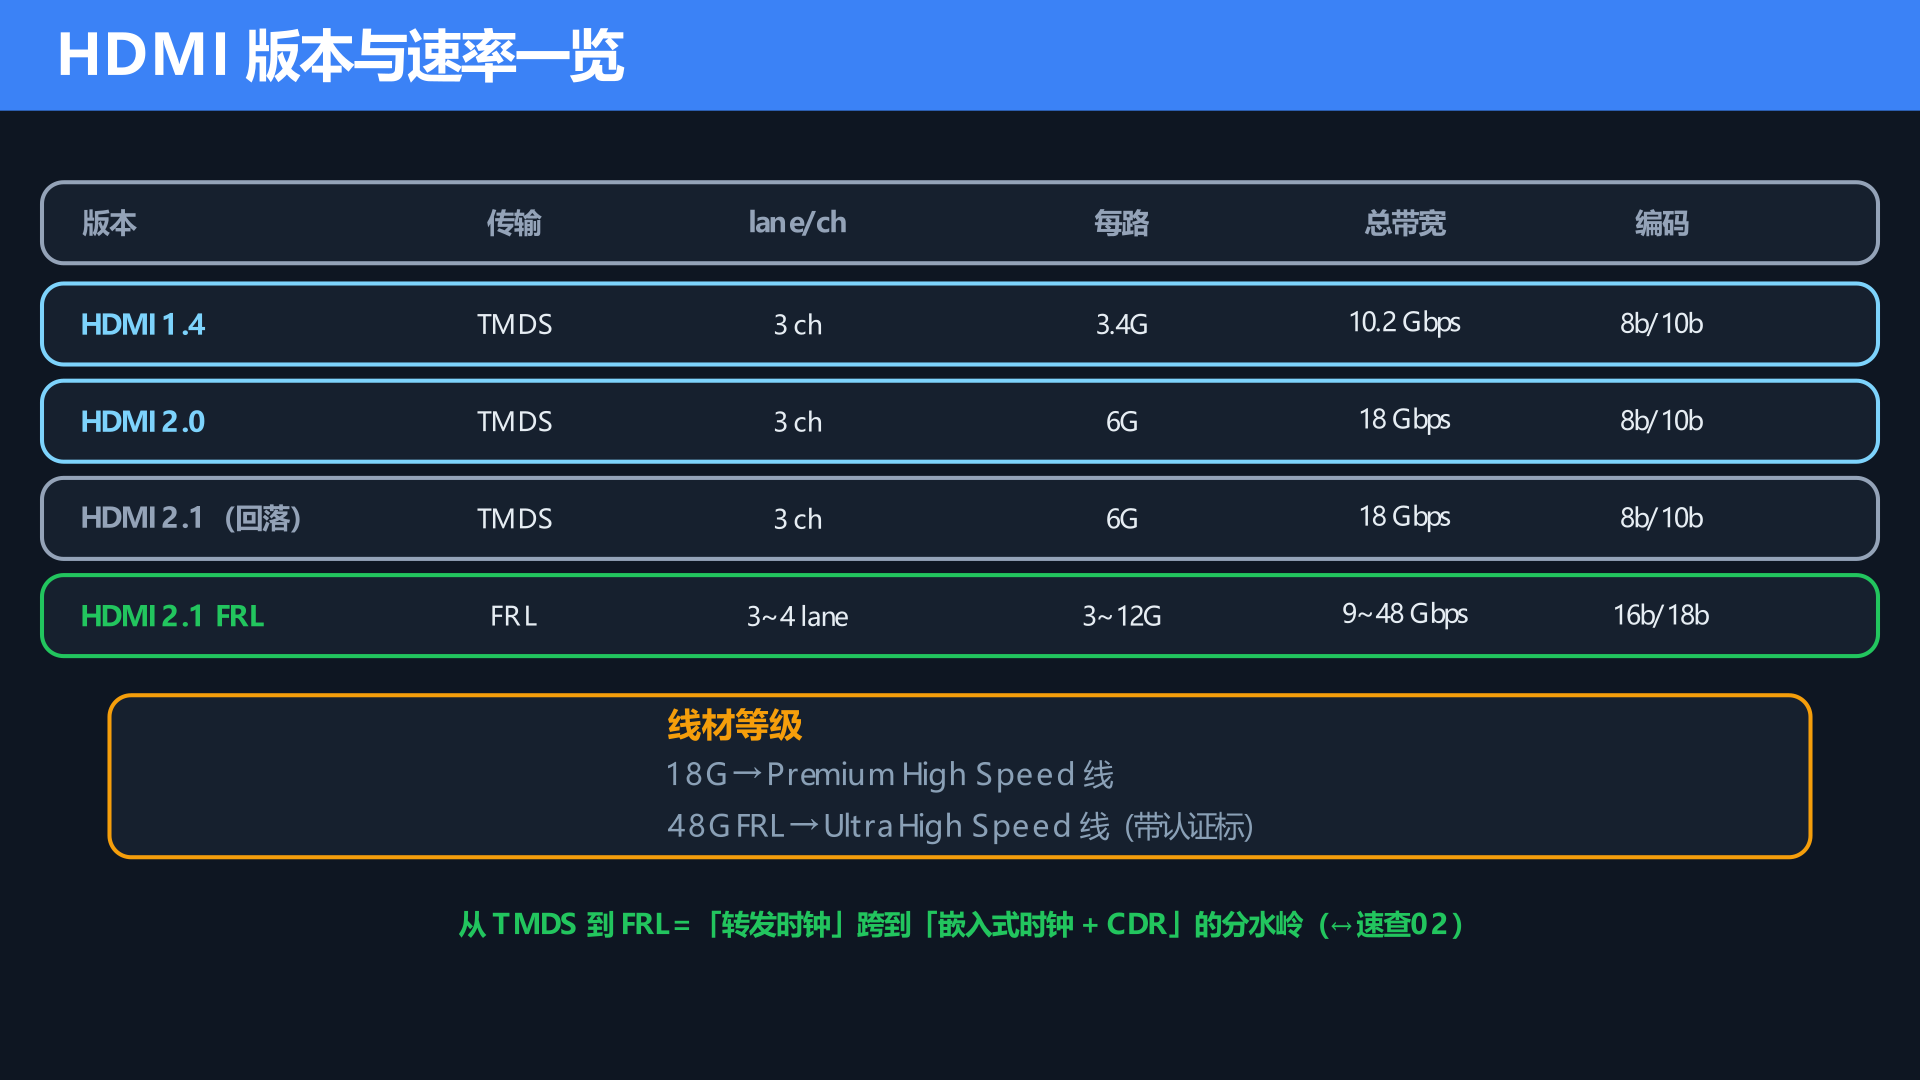
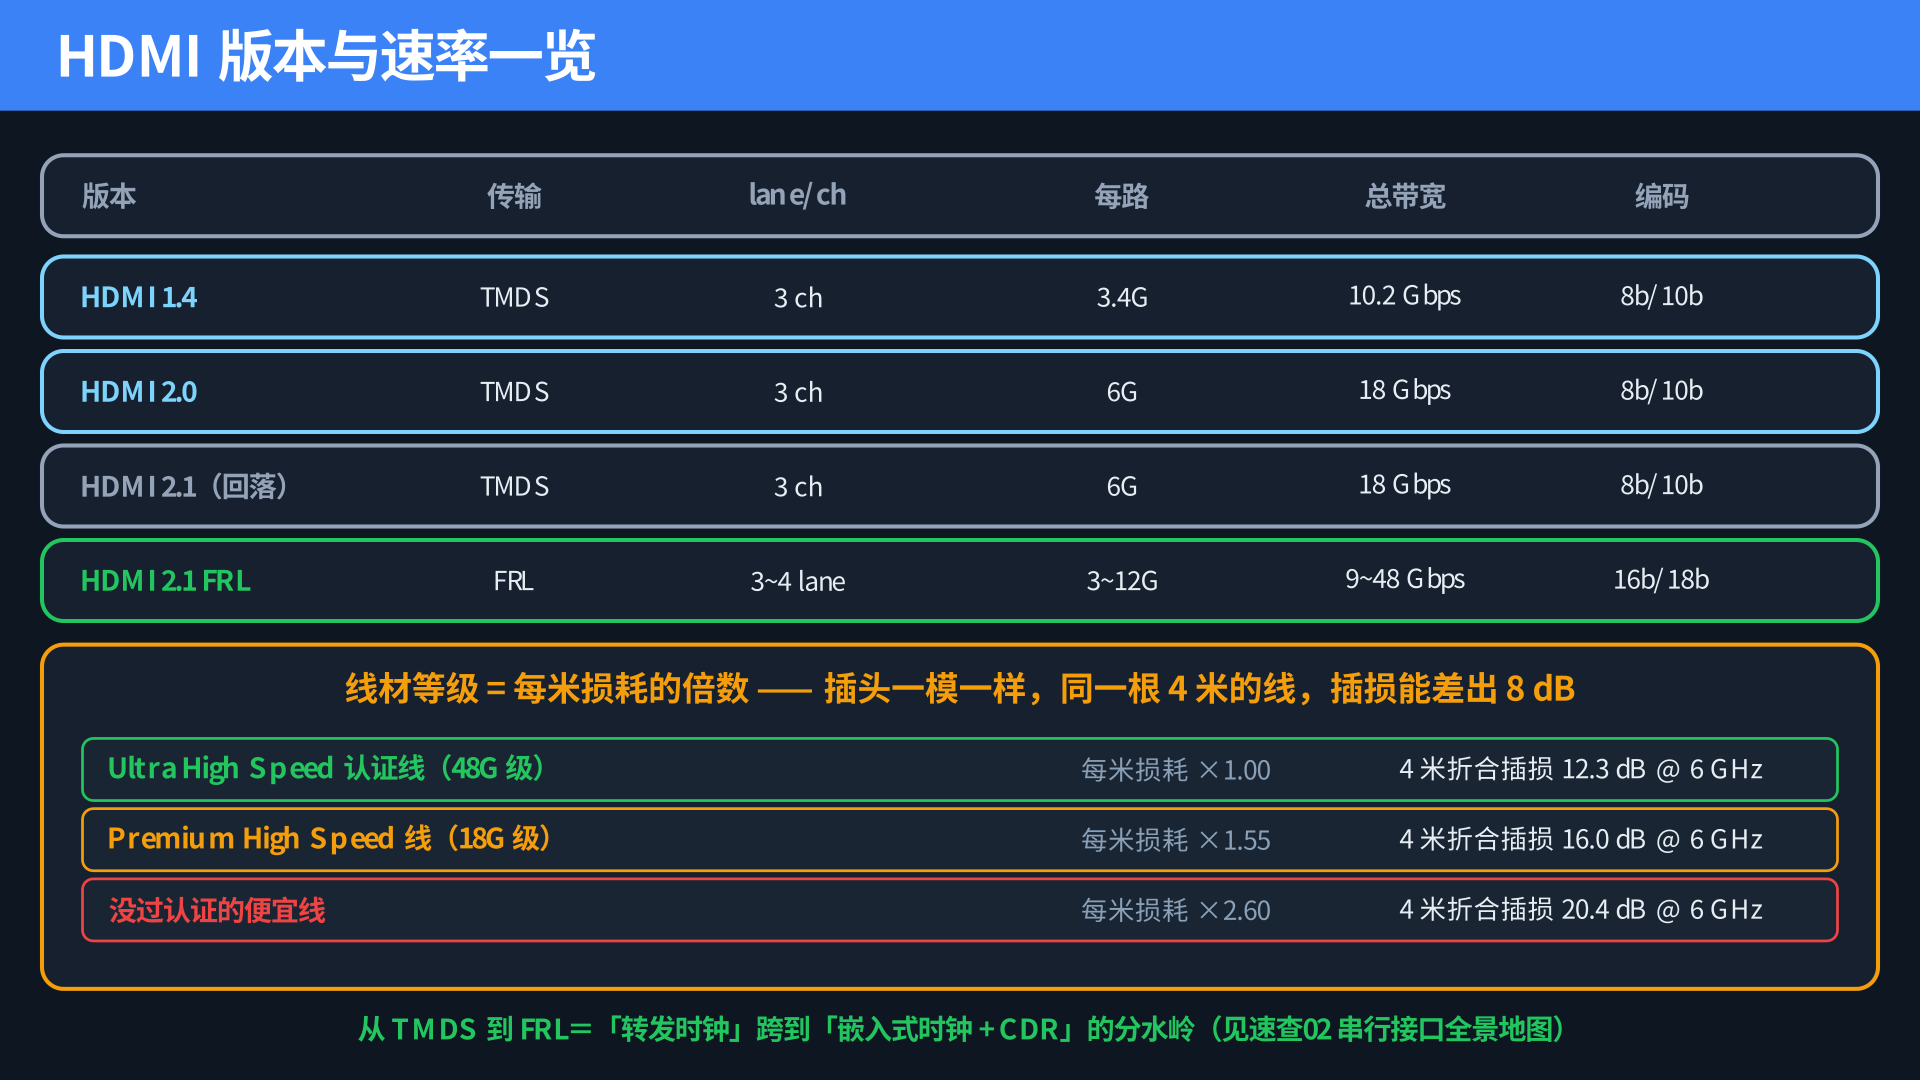
第40篇 HDMI 提质产物上线：3 张真实仿真动图 + 2 张 Setup 图 + 9 张静态图返修
- 动图：TMDS 扫线长（0.5~8 m，4.69 m 眼宽先擦穿）、FRL 扫 CTLE（8.5~9 dB 翻转）、
  扫插损逐级掉档（7~30 dB，FRL6→FRL5→FRL4→FRL3→FRL1→回落 TMDS）
- Setup Diagram：源端一致性台面、宿端压力测试台面
- 静态图全部返修，真眼图取代手绘示意；正文补 TMDS Clock Ratio / DSC / HPD / CEC
- link training 方向纠正为「从目标档往低试」

Copilot-Session: 98e6f08a-79aa-44d4-a3b2-99c123e738f7

Changed region(s): [[0.0, 0.1222, 1.0, 0.9778], [0.0312, 0.0306, 0.3438, 0.0917]]

diff --git a/index.md b/index.md
@@ -36,9 +36,9 @@ hero:
 
 ## 🆕 最新更新
 
+- [40 · 同样一根 HDMI 线，为什么有的能 4K120 / 8K、有的一插就花屏黑屏？——HDMI：从 TMDS 到 FRL，测法怎么跟着传输机制换了一套](/articles/40) 🔧
 - [39 · 同样一根 USB-C 线，为什么有的 100W 快充、有的只有 5V？——USB-C / USB PD：一致性测试里唯一不看眼图的一篇](/articles/39) 🔧
 - [38 · 同样是 USB，为什么 10G 的眼图在示波器上直接是「闭」的？——USB 3.x 超速，一致性测试真正的深水区](/articles/38) 🔧
 - [37 · 插移动硬盘就掉速？3000 个比特叠成一只「眼」，USB 2.0 就靠它判生死——眼高差 23 毫伏，这根线就贴不上 USB logo](/articles/37) 🔧
 - [36 · 一条走线好好的，眼图却塌了——TDR 怎么像"给走线做 B 超"，一眼揪出坏在第几厘米？](/articles/36) 🔧
 - [pi01 · 同一颗 CPU，核心电压每秒跳几百次——你还按 1.0V±3% 测纹波，测的是一个根本不存在的工作点](/articles/pi01) 🔧
-- [35 · 一致性测试到底是什么：为什么你的 USB、HDMI 口敢说"能和全世界的设备互通"？](/articles/35) 🔧
